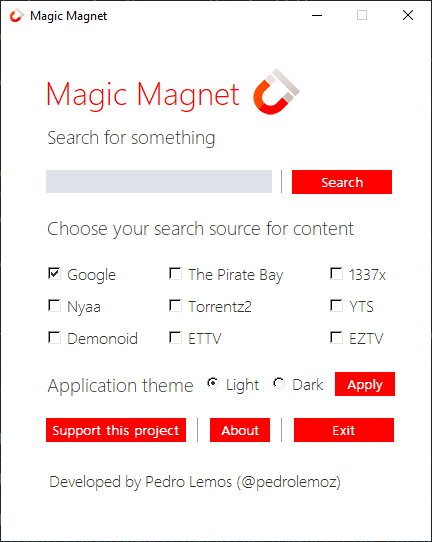
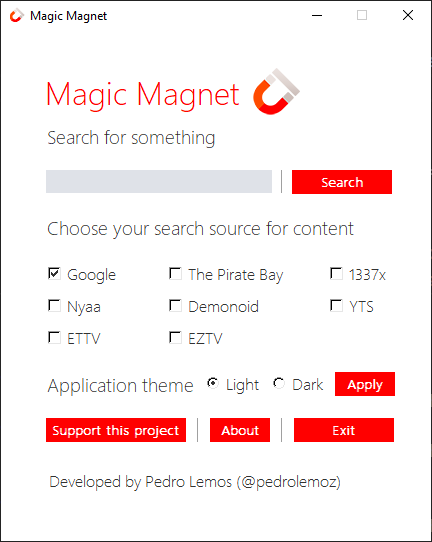
Screenshot updated and bugfixes

diff --git a/MagicMagnet.py b/MagicMagnet.py
@@ -64,10 +64,10 @@ while True:
     if event == 'Apply':
         status = False
 
-        if values[11]:
+        if values[10]:
             status = settings.change_theme('MagicMagnetLight')
         
-        elif values[12]:
+        elif values[11]:
             status = settings.change_theme('MagicMagnetDark')
         
         if status:
